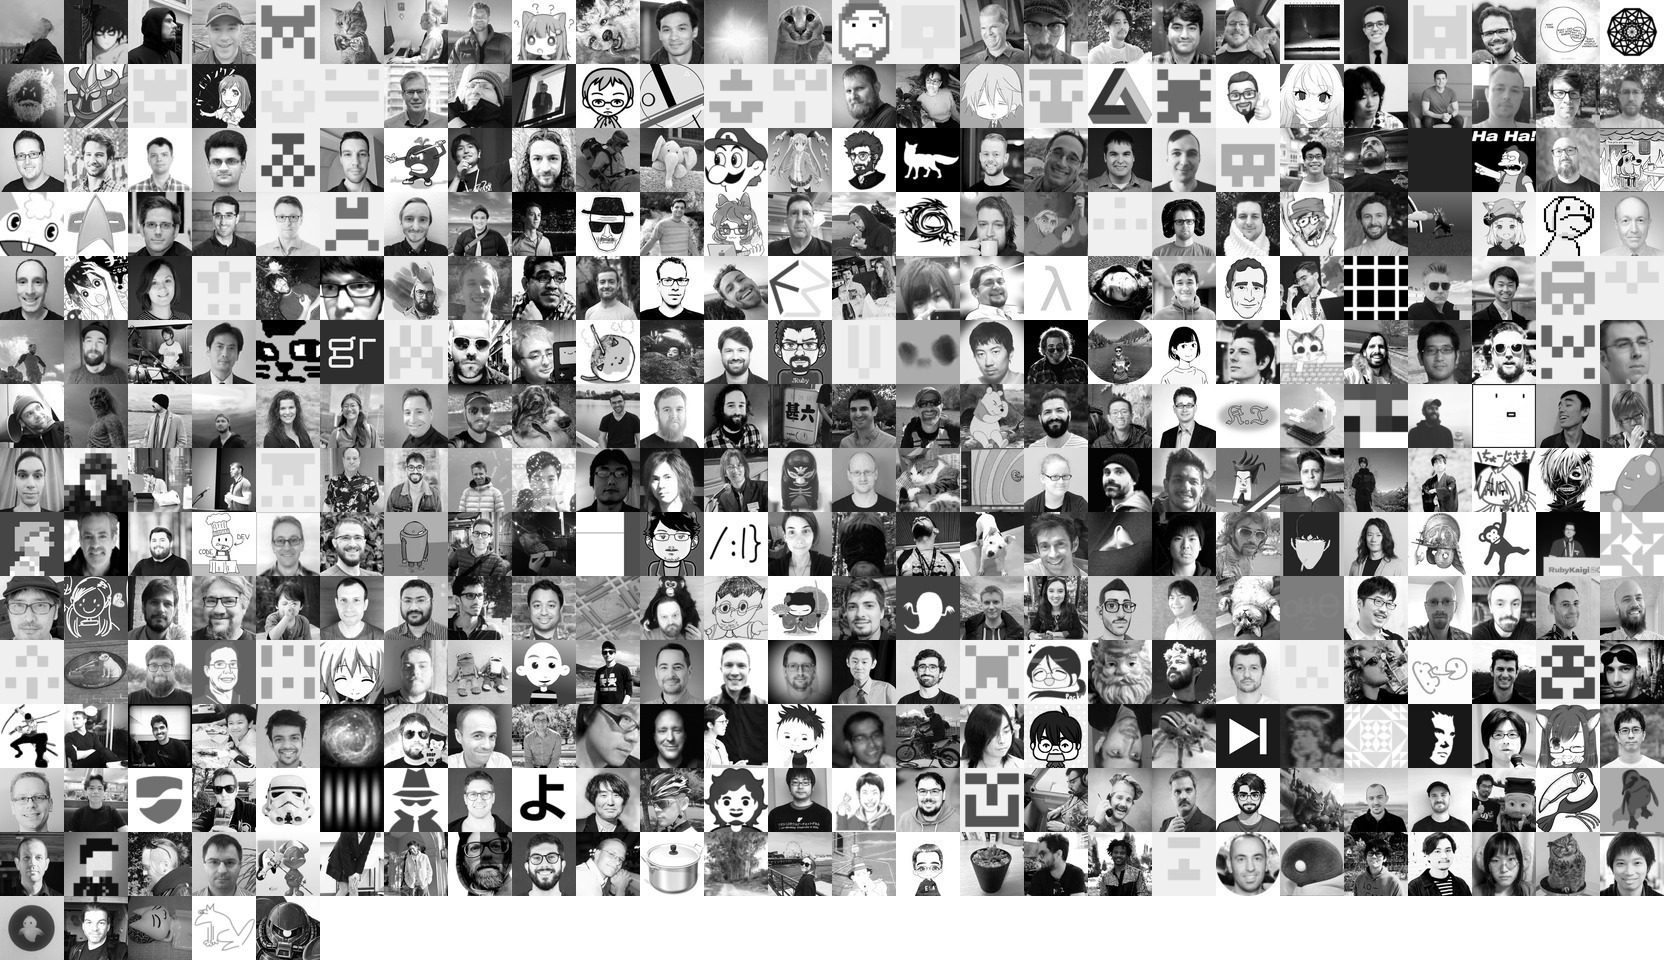
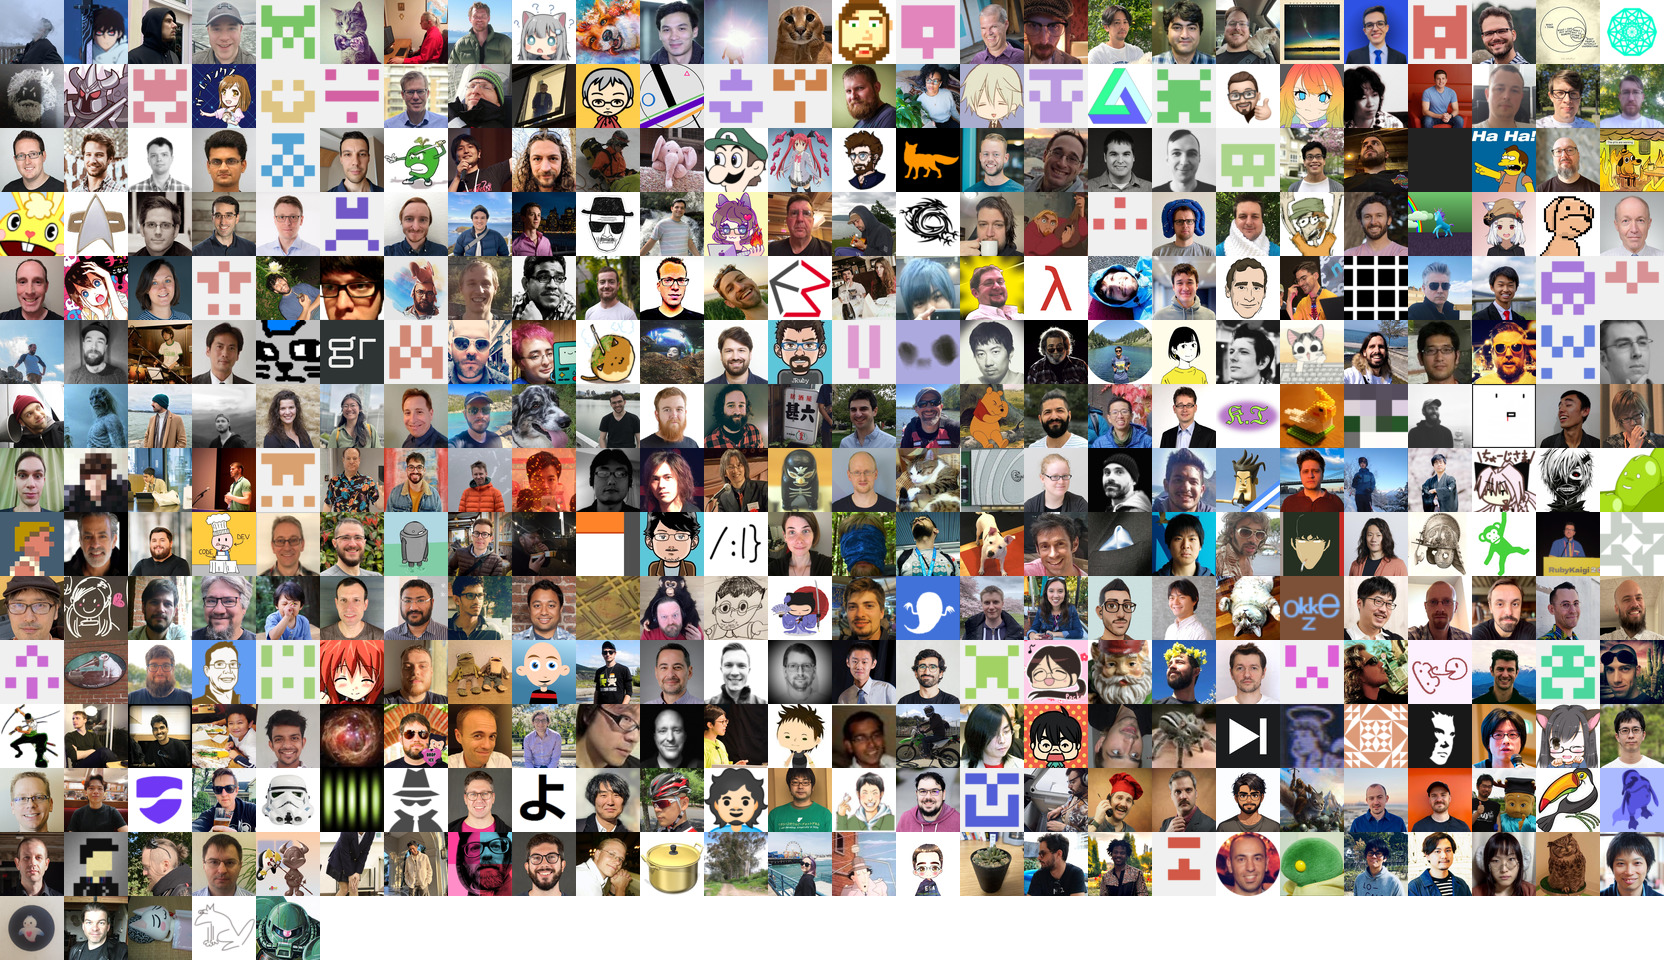
now it's fast (and with colors)

diff --git a/download_avatars/collage.rb b/download_avatars/collage.rb
@@ -8,7 +8,7 @@ IMAGE_SIZE = 64
 avatar_files = Dir[File.join(AVATAR_DIR, '*')]
 count = avatar_files.size
 
-# Find columns and rows to closely match TARGET_ASPECT
+# Compute best columns/rows to approximate 16:9 aspect
 best_columns = (1..count).min_by do |cols|
   rows = (count.to_f / cols).ceil
   aspect = (cols * IMAGE_SIZE).to_f / (rows * IMAGE_SIZE)
@@ -21,35 +21,20 @@ rows = (count.to_f / columns).ceil
 collage_width = columns * IMAGE_SIZE
 collage_height = rows * IMAGE_SIZE
 
-# Create blank canvas
-MiniMagick::Tool::Convert.new do |convert|
-  convert.size "#{collage_width}x#{collage_height}"
-  convert.xc 'white'
-  convert << OUTPUT_FILE
-end
+# Corrected montage call with proper resize and cropping options
+montage = MiniMagick::Tool::Montage.new
+avatar_files.each { |f| montage << f }
 
-collage_image = MiniMagick::Image.open(OUTPUT_FILE)
+# Correct resize and crop syntax: first resize, then crop if necessary
+montage.geometry "#{IMAGE_SIZE}x#{IMAGE_SIZE}+0+0"
+montage.gravity 'center'
+montage.resize "#{IMAGE_SIZE}x#{IMAGE_SIZE}^"
+montage.extent "#{IMAGE_SIZE}x#{IMAGE_SIZE}"
+montage.tile "#{columns}x#{rows}"
+montage.background 'white'
+montage << OUTPUT_FILE
 
-x, y = 0, 0
-avatar_files.each_with_index do |avatar, index|
-  image = MiniMagick::Image.open(avatar)
-  image.resize "#{IMAGE_SIZE}x#{IMAGE_SIZE}^"
-  image.gravity 'center'
-  image.extent "#{IMAGE_SIZE}x#{IMAGE_SIZE}"
-
-  collage_image = collage_image.composite(image) do |c|
-    c.compose 'Over'
-    c.geometry "+#{x}+#{y}"
-  end
-
-  x += IMAGE_SIZE
-  if (index + 1) % columns == 0
-    x = 0
-    y += IMAGE_SIZE
-  end
-end
-
-collage_image.write OUTPUT_FILE
+montage.call
 
 actual_aspect = collage_width.to_f / collage_height
 puts "✅ Collage created at #{OUTPUT_FILE}"
